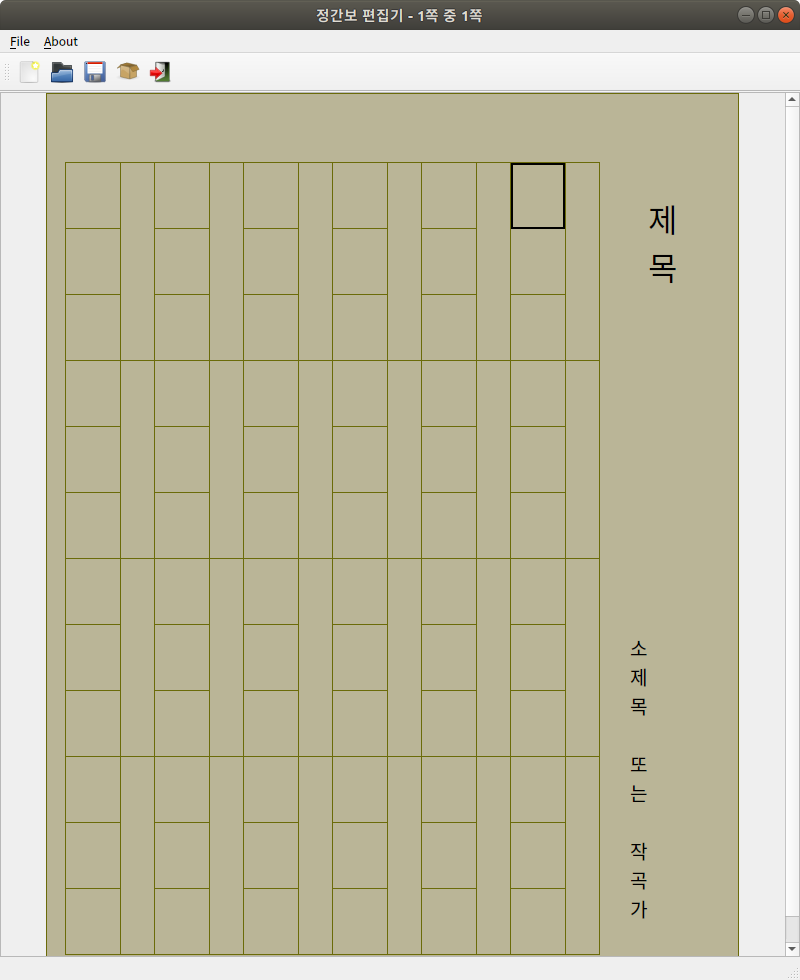
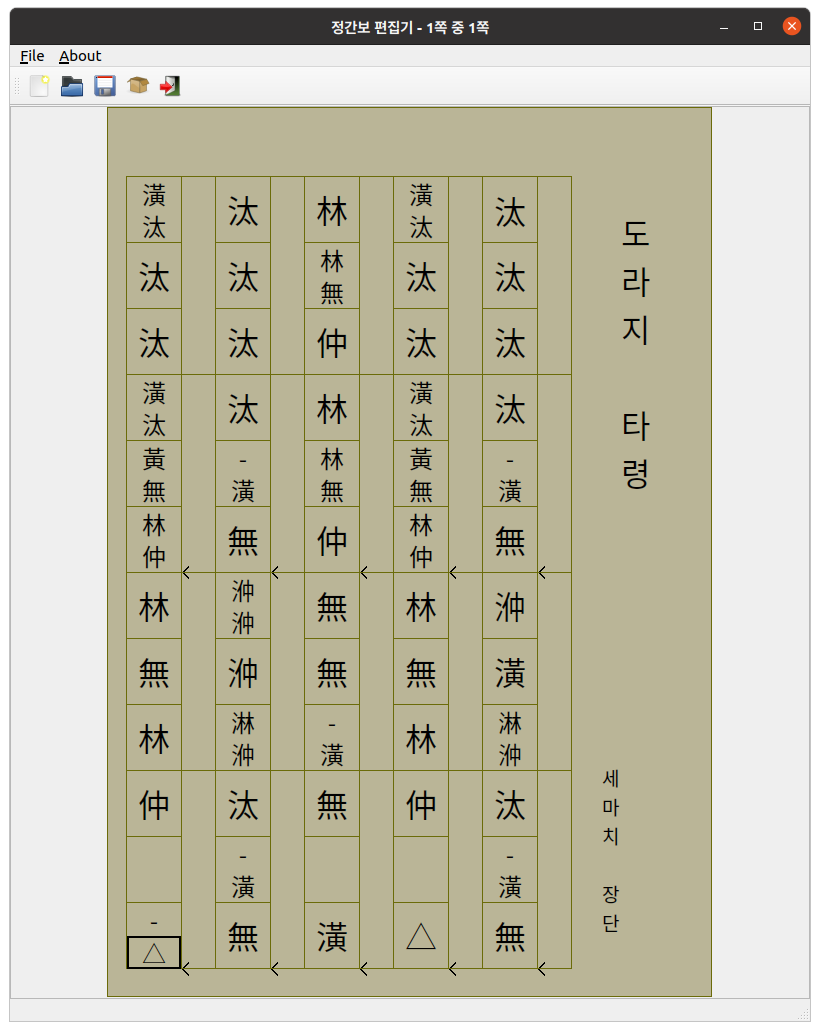
update README main app screenshot README 문서에 들어갈 프로그램 실행 스크린샷 변경

diff --git a/main.py b/main.py
@@ -547,7 +547,7 @@ class MyApp(QMainWindow):
         dialog_layout.addWidget(title_label, 0, 1)
 
         version_label = QLabel()
-        version_label.setText("v1.0, 2023-07-14")
+        version_label.setText("v1.1, 2023-07-17")
         dialog_layout.addWidget(version_label, 1, 1)
 
         author_label = QLabel()
